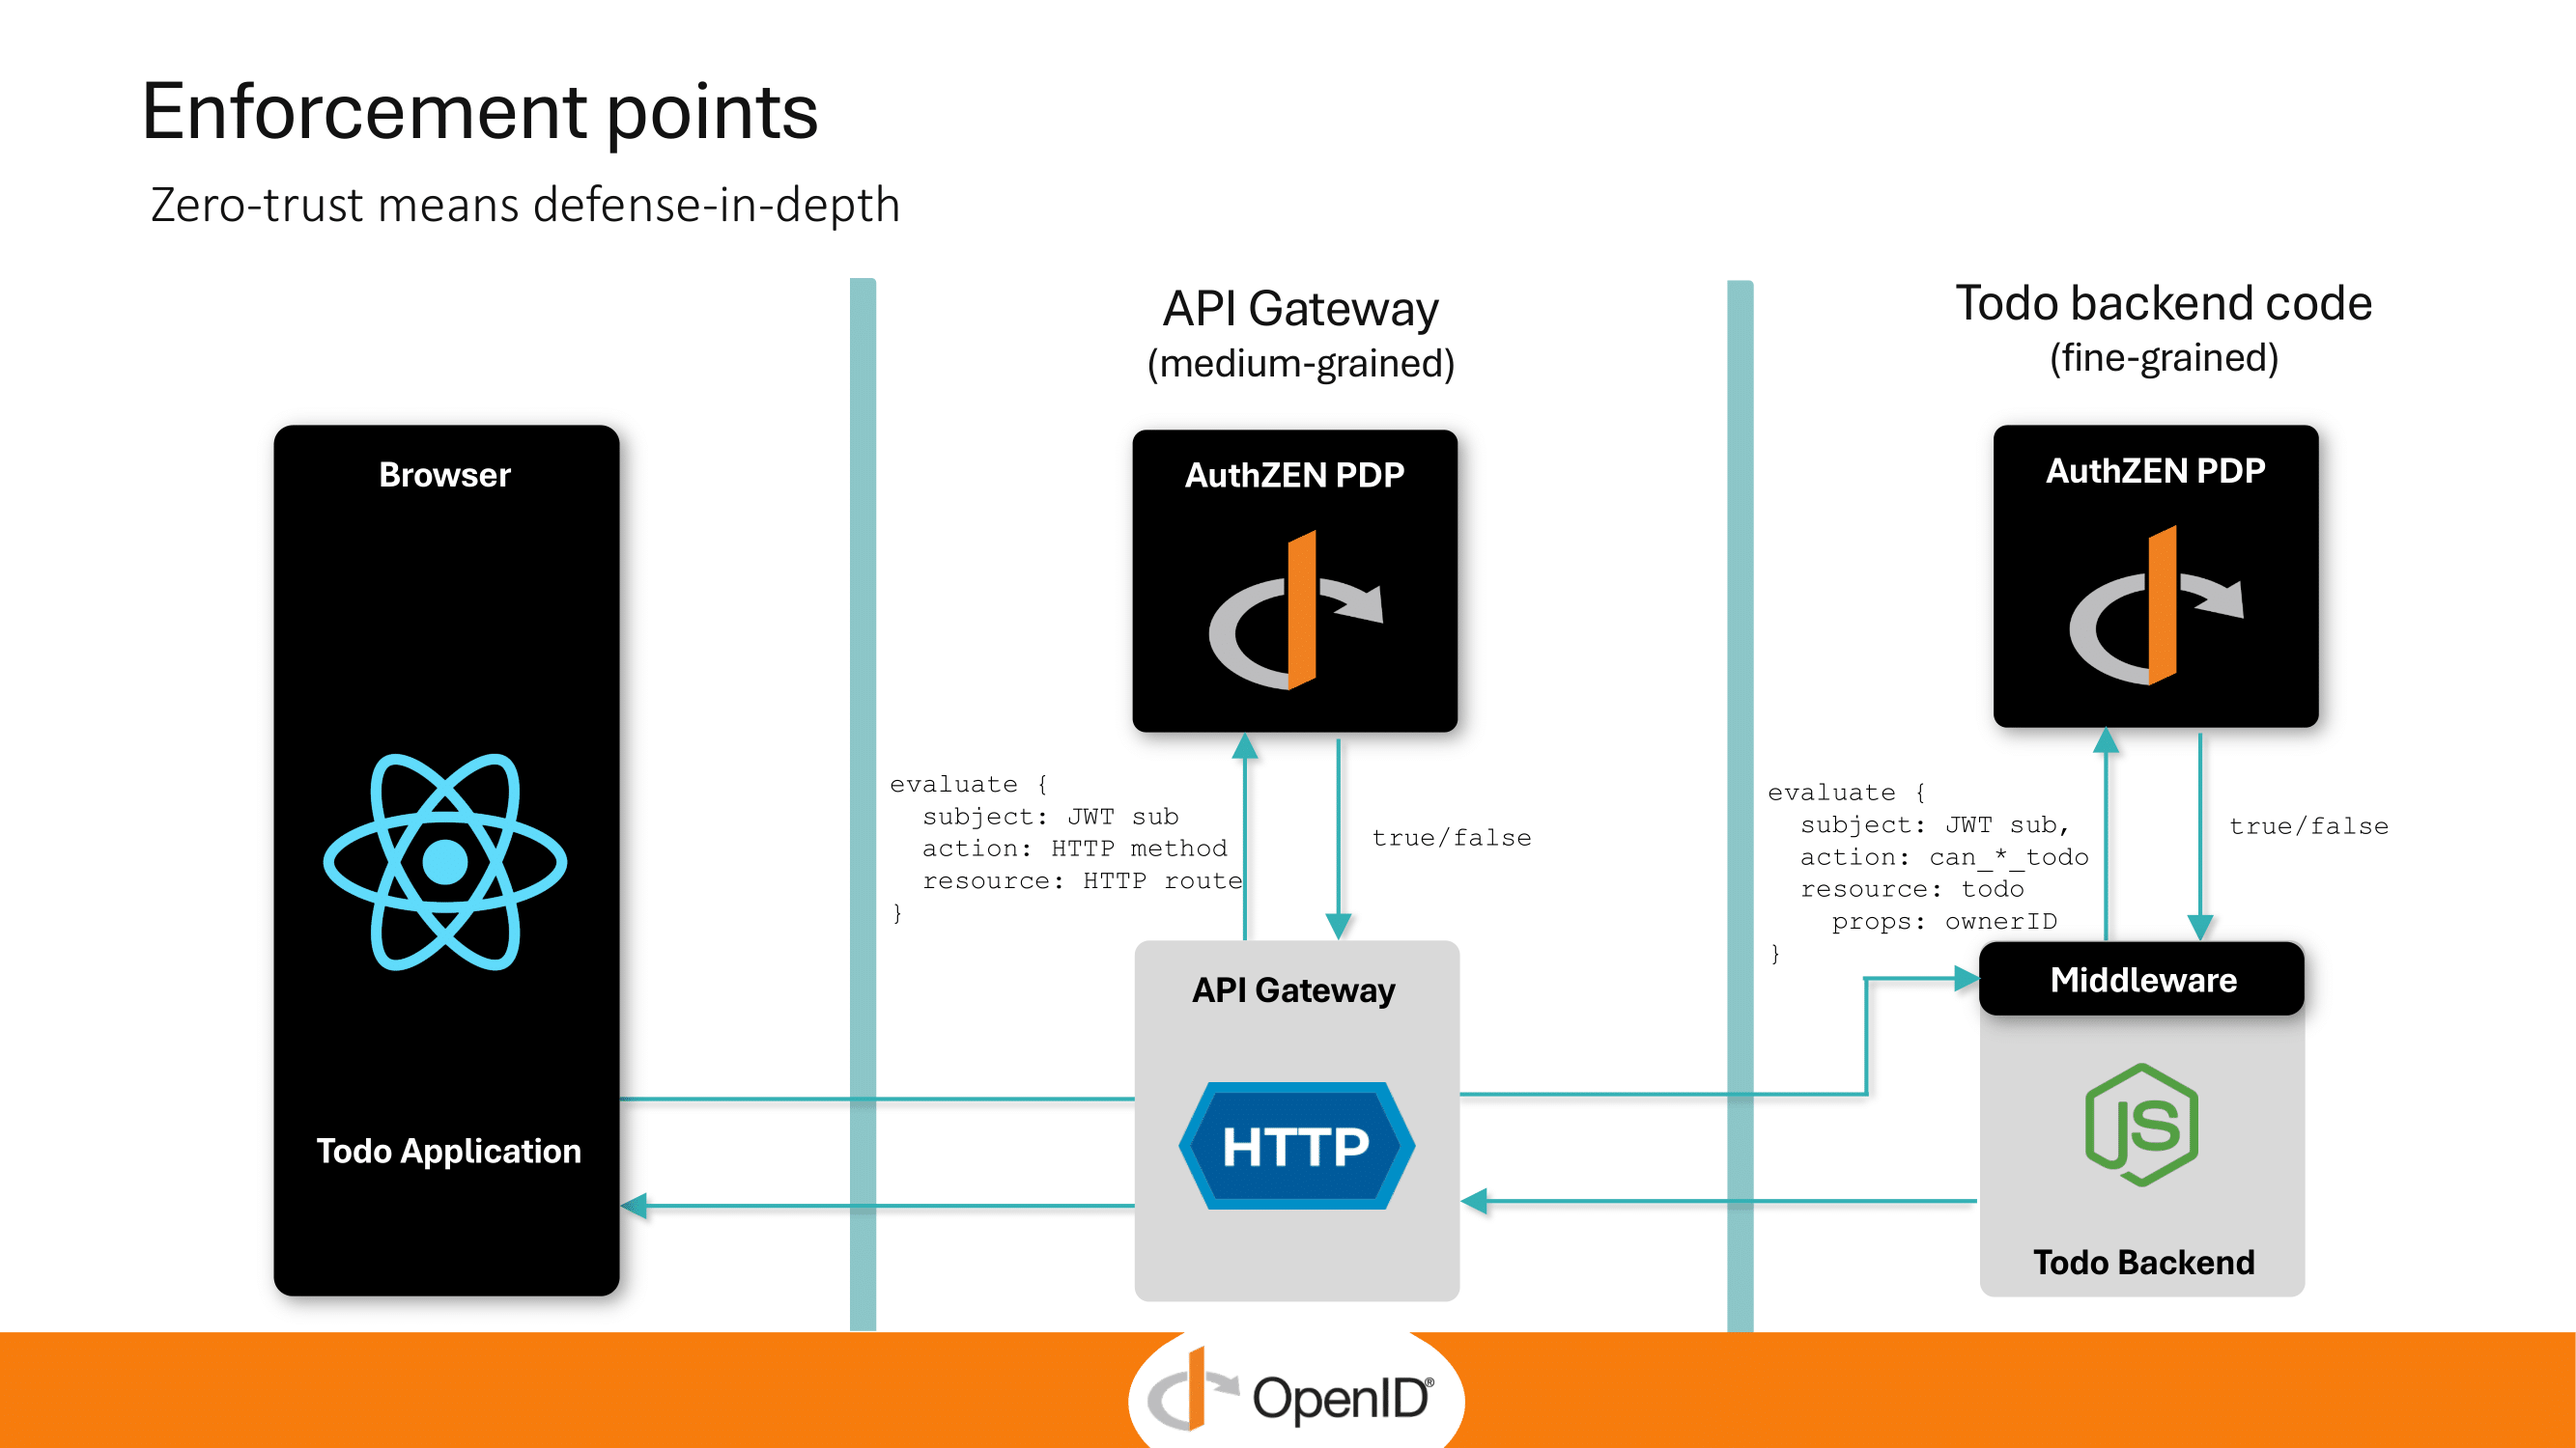
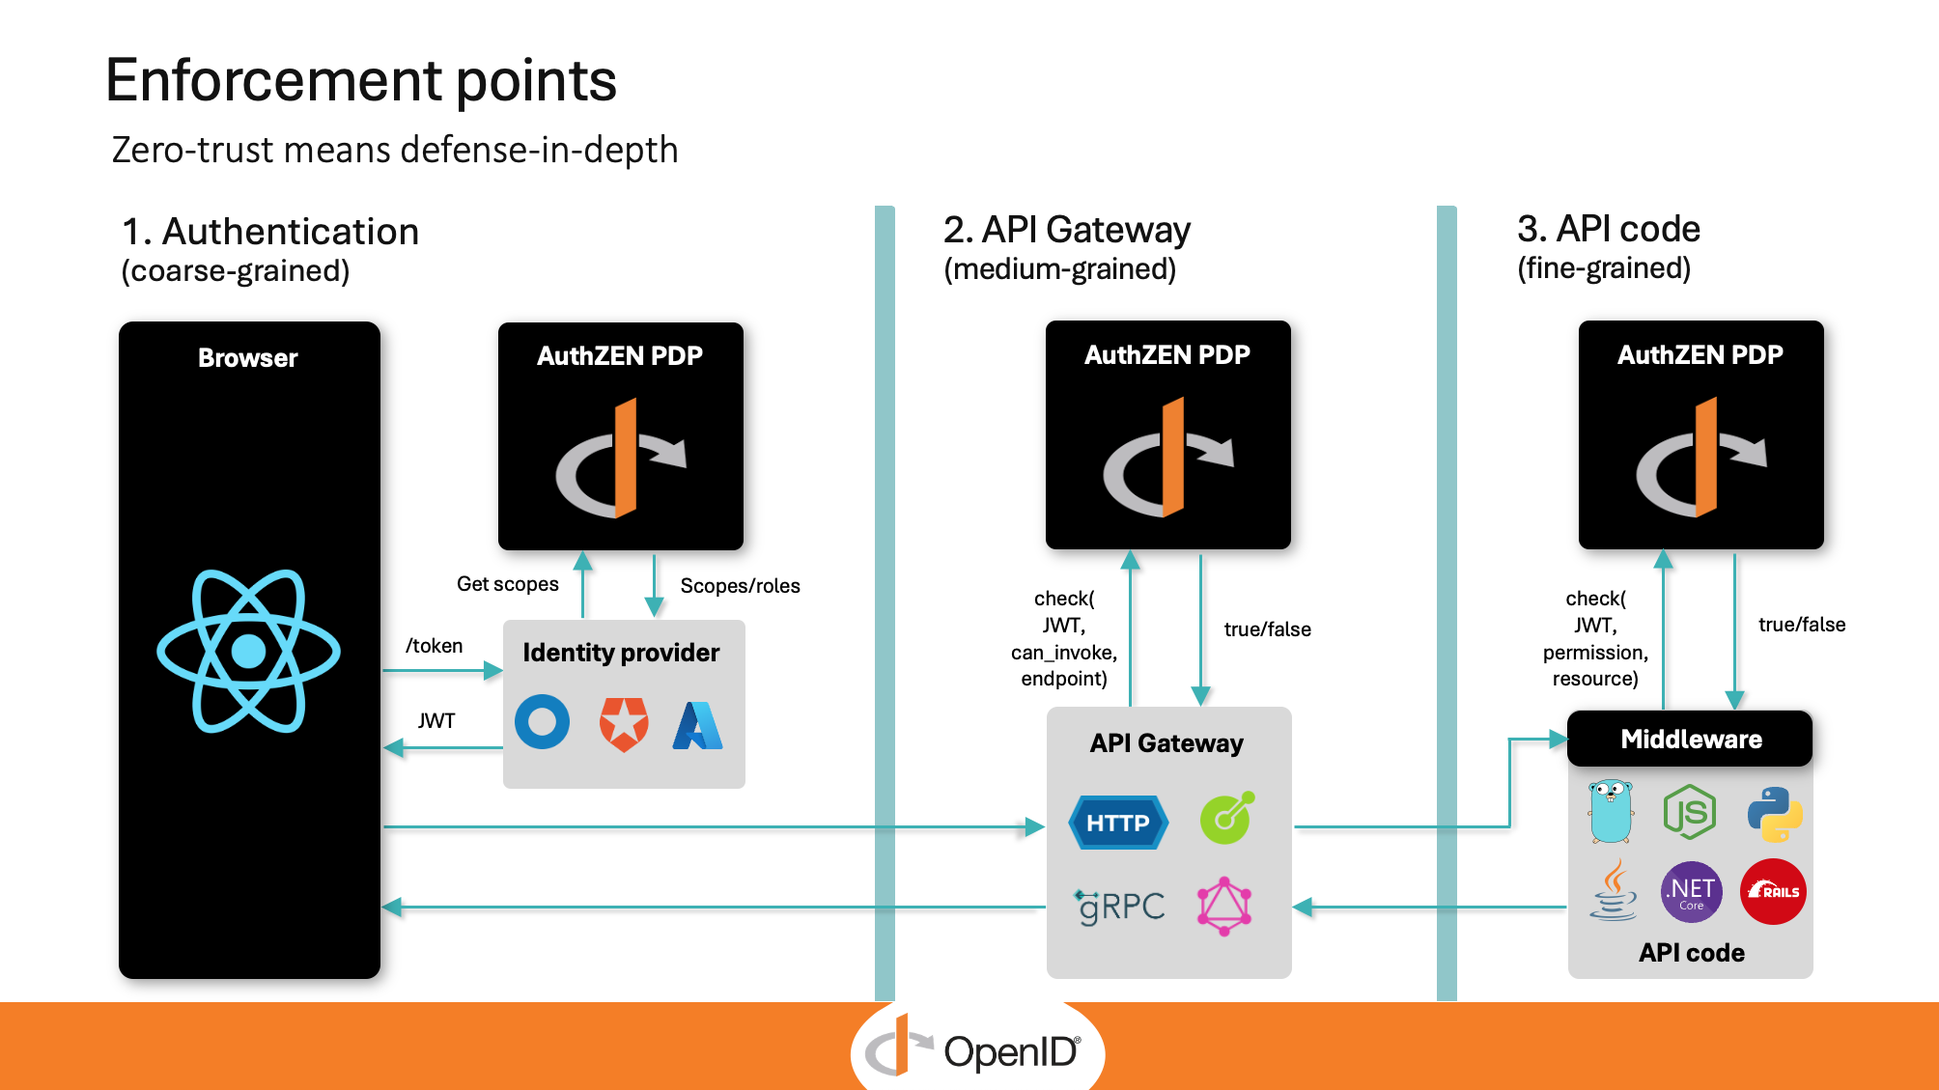
updated intro, arch img, added IDP link to header

diff --git a/interop/authzen-interop-website/docusaurus.config.js b/interop/authzen-interop-website/docusaurus.config.js
@@ -81,6 +81,11 @@ const config = {
             label: 'Search Application',
             postion: 'left',
           },
+          {
+            href: 'https://sts.authzen-interop.net',
+            label: 'IdP/PDP Scenario',
+            postion: 'left',
+          },
           // {to: '/blog', label: 'Blog', position: 'left'},
           {
             href: 'https://github.com/openid/authzen',

diff --git a/interop/authzen-interop-website/docs/intro.md b/interop/authzen-interop-website/docs/intro.md
@@ -6,8 +6,8 @@ sidebar_position: 1
 
 The [OpenID AuthZEN working group](https://openid.net/wg/authzen) has defined a set of interop scenarios. These all are layered around a Todo application as a Policy Enforcement Point.
 
-:::tip New in February 2025!
-For the fourth AuthZEN interop event at Gartner IAM Summit in London (March 25 2025), we have added various [API Gateways](#architecture) as Policy Enforcement Points.
+:::tip New in December 2025!
+For the seventh AuthZEN interop event at Gartner IAM Summit in Grapevine (Dec 8 2025), we have added various [Identity Providers](#architecture) as Policy Enforcement Points.
 :::
 
 ## What you'll find here
@@ -24,15 +24,34 @@ The following video demonstrates the Todo interop scenario and the structure of 
 
 ## Architecture
 
-The latest scenario defines a defense-in-depth architecture, consisting of API gateways as an initial policy enforcement point performing functional / medium-grained authorization at the HTTP route level, and the relying party (Todo app) as another enforcement point, performing fine-grained authorization at the Todo level.
+AuthZEN is built around a defense-in-depth approach to IAM:
+* coarse-grained authorization can be performed during authentication, with the IdP functioning as a policy enforcement point
+* medium-grained authorization can be enforced by API gateways, performing functional authorization at the HTTP route level
+* the relying party (in our case, a Todo app) is the final enforcement point, performing fine-grained authorization at the Todo level
 
 ![enforcement points](/img/enforcement-points.png)
+
+## Interoperability events
+
+The AuthZEN working group sponsored seven formal interoperability events since June 2024, focusing on various scenarios:
+
+| Scenario          | Event                   | Draft | Endpoints                 |
+| ----------------- | ----------------------- | ----- | ------------------------- |
+| App Code          | Identiverse 2024        | 00    | `/evaluation`             |
+| App Code          | EIC 2024                | 01    | `/evaluation`             |
+| App Code          | Authenticate 2024       | 02    | + `/evaluations`          |
+| App Code          | Gartner IAM US 2024     | 02    | + `/evaluations`          |
+| API Gateway       | Gartner IAM London 2025 | 02    | + `/evaluations`          |
+| Search            | Identiverse 2025        | 03    | `/search`, `/.well-known` |
+| Identity Provider | Gartner IAM US 2025     | 04    | `/search`                 |
 
 ## Results summary
 
 ### Policy Decision Points
 
-#### Todo (evaluation) scenarios
+#### Todo (App Code & API Gateway `evaluation` / `evaluations` API) scenarios
+
+Policy Decision Points that participated in the various App Code and [API Gateway](/docs/scenarios/api-gateway/) scenarios.
 
 | Implementation       | [Todo PEP 00](/docs/scenarios/todo/)                          | [Todo PEP 01](/docs/scenarios/todo-1.0-id)                           | [Todo PEP 02](/docs/scenarios/todo-1.1/)                          | [Gateway PEP 02](/docs/scenarios/api-gateway/)                         |
 | -------------------- | ------------------------------------------------------------- | -------------------------------------------------------------------- | ----------------------------------------------------------------- | ---------------------------------------------------------------------- |
@@ -56,7 +75,9 @@ The latest scenario defines a defense-in-depth architecture, consisting of API g
 | WSO2                 | Did not participate                                           | Did not participate                                                  | ✅ [Results](/docs/scenarios/todo-1.1/results/wso2)               | ✅ [Results](/docs/scenarios/api-gateway/results/wso2)                 |
 | 3Edges               | ✅ [Results](/docs/scenarios/todo/results/3edges)             | Replaced by Indykite                                                 | Replaced by Indykite                                              | Did not participate                                                    |
 
-#### Search scenario
+#### Search API scenario
+
+Policy Decision Points that participated in the [Search](/docs/scenarios/search/) scenario.
 
 | Implementation              | [Search PEP 03](/docs/scenarios/search/)                      |
 | --------------------------- | ------------------------------------------------------------- |
@@ -70,7 +91,9 @@ The latest scenario defines a defense-in-depth architecture, consisting of API g
 | Topaz                       | ✅ [Results](/docs/scenarios/search/results/topaz)            |
 | WSO2                        | ✅ [Results](/docs/scenarios/search/results/wso2 )            |
 
-#### IdP interop scenario
+#### Identity Provider interop scenario (`search` API)
+
+Policy Decision Points that participated in the [IdP](/docs/scenarios/idp/) scenario.
 
 | Implementation              | [IdP PEP 04](/docs/scenarios/idp/)                         |
 | --------------------------- | ---------------------------------------------------------- |
@@ -82,7 +105,7 @@ The latest scenario defines a defense-in-depth architecture, consisting of API g
 
 ### API Gateways
 
-API Gateways that support the [Gateway scenario](/docs/scenarios/api-gateway/).
+API Gateways that participated in the [Gateway](/docs/scenarios/api-gateway/) scenario.
 
 | Implementation       | Hosted at                                                     |
 | -------------------- | ------------------------------------------------------------- |
@@ -96,7 +119,7 @@ API Gateways that support the [Gateway scenario](/docs/scenarios/api-gateway/).
 
 ### Identity Providers 
 
-Identity Providers that support the [IdP scenario](/docs/scenarios/idp/).
+Identity Providers that support the [IdP](/docs/scenarios/idp/) scenario.
 
 | Implementation       | Hosted at                                                     |
 | -------------------- | ------------------------------------------------------------- |
